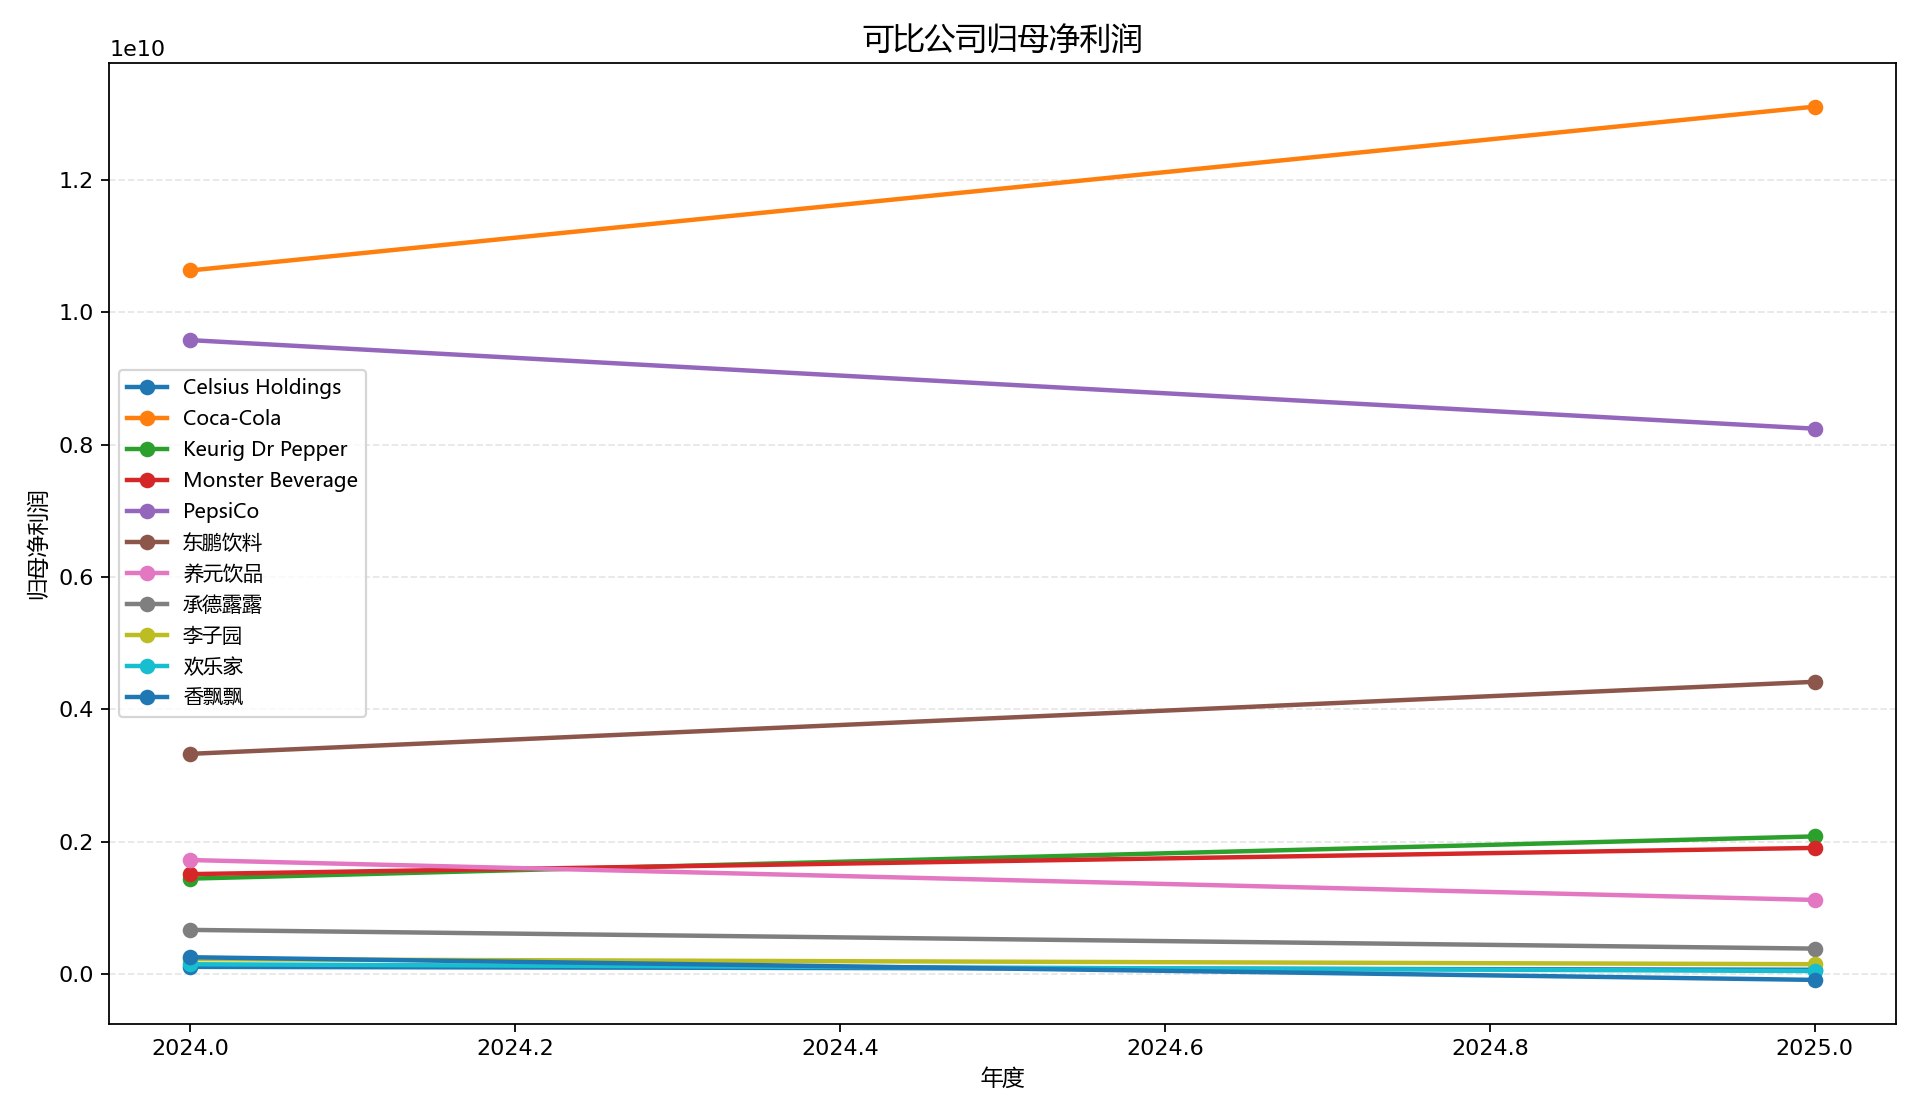
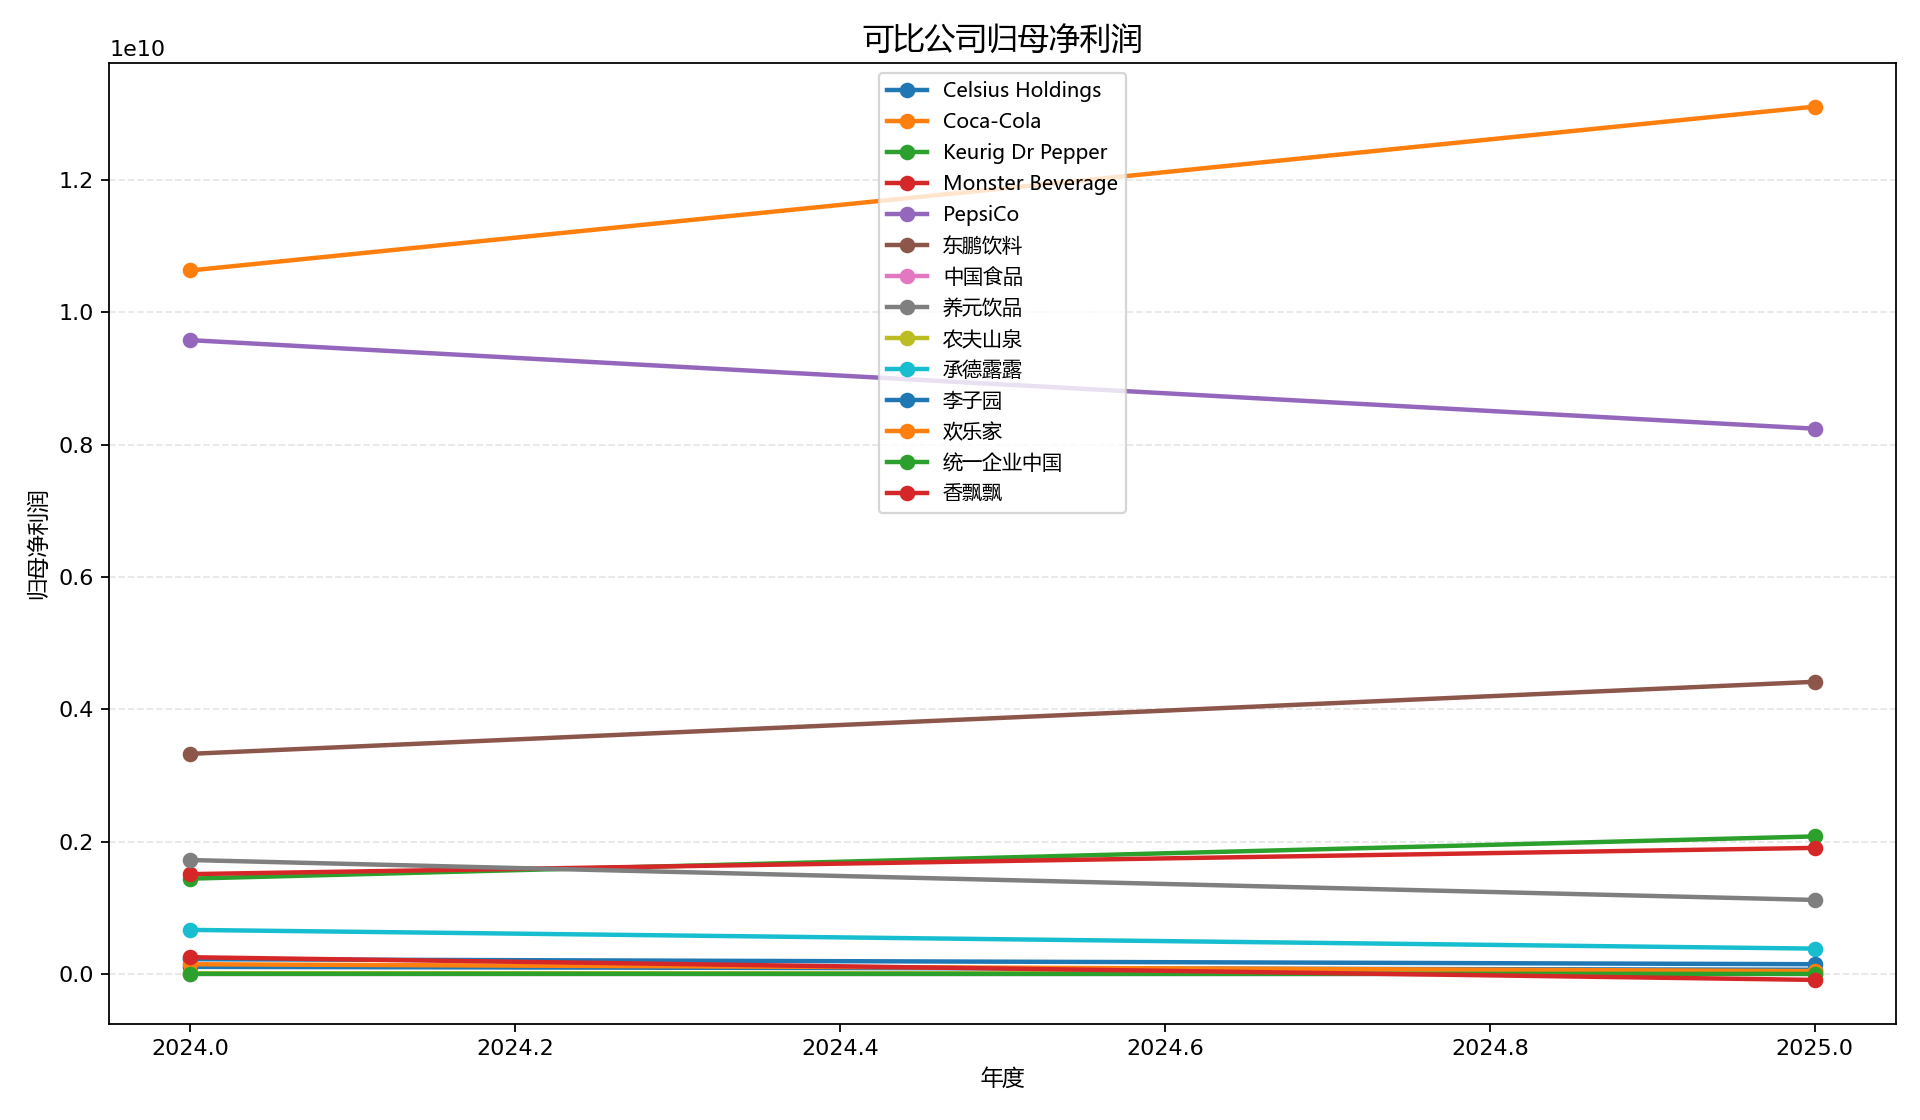
补充饮料H股可比公司与横向分析

diff --git a/饮料可比公司研究/03_横向对比分析_第一版.md b/饮料可比公司研究/03_横向对比分析_第一版.md
@@ -1,0 +1,103 @@
+# 饮料可比公司横向对比分析
+
+## 范围与口径
+
+- 当前主表共纳入 `14` 家公司、`28` 条年度记录。
+- A股：东鹏饮料、养元饮品、承德露露、香飘飘、李子园、欢乐家。
+- H股：农夫山泉、统一企业中国、中国食品。
+- 美股：Monster Beverage、Celsius Holdings、Coca-Cola、PepsiCo、Keurig Dr Pepper。
+- `2024` 基本可作为严格横向比较口径。
+- `2025` 为混合口径：东鹏饮料、欢乐家、美股为全年；承德露露、养元饮品、李子园、香飘飘为三季报；农夫山泉、统一企业中国、中国食品为中报。因此 `2025` 更适合看结构和相对位置，不适合直接做严格同比。
+- 跨市场的收入和资产规模受币种影响，不直接横比绝对规模；本文件重点比较利润率、费用率、回报率、负债率、流动性和现金流质量。
+
+## 东鹏与重点可比公司对照
+
+### 2024 关键指标
+
+| 公司 | 毛利率 | 归母净利率 | 销售费用率 | ROE | 资产负债率 | 经营现金流/归母净利润 | 资本开支/收入 |
+|---|---:|---:|---:|---:|---:|---:|---:|
+| 东鹏饮料 | 44.8% | 21.0% | 16.9% | 47.5% | 66.1% | 1.74x | 10.7% |
+| 农夫山泉 | 58.1% | 28.3% | 21.4% | 39.8% | 39.3% | 0.91x | 15.1% |
+| Monster Beverage | 54.0% | 20.1% | 28.3% | 25.3% | 22.8% | 1.28x | 3.5% |
+| Celsius Holdings | 50.2% | 7.9% | 38.6% | 26.9% | 30.7% | 2.45x | 1.7% |
+| Coca-Cola | 61.1% | 22.6% | 31.0% | 42.8% | 75.3% | 0.64x | 4.4% |
+| PepsiCo | 54.6% | 10.4% | 40.5% | 53.1% | 81.7% | 1.31x | 0.0% |
+| 统一企业中国 | 32.5% | 6.1% | 22.2% | 13.8% | 42.7% | 2.37x | 2.3% |
+| 中国食品 | 37.8% | 4.0% | 27.3% | 13.8% | 42.1% | 3.31x | 3.6% |
+
+### 2025 关键指标
+
+| 公司 | 毛利率 | 归母净利率 | 销售费用率 | ROE | 资产负债率 | 经营现金流/归母净利润 | 资本开支/收入 |
+|---|---:|---:|---:|---:|---:|---:|---:|
+| 东鹏饮料 | 44.1% | 21.2% | 16.3% | 51.6% | 64.7% | 1.40x | 10.9% |
+| 农夫山泉 | 60.3% | 29.7% | 19.6% | 23.9% | 51.3% | 1.37x | 13.9% |
+| Monster Beverage | 55.8% | 23.0% | 26.7% | 23.1% | 17.4% | 1.10x | 1.6% |
+| Celsius Holdings | 50.4% | 2.5% | 44.7% | 5.4% | 42.5% | 5.63x | 1.4% |
+| Coca-Cola | 61.6% | 27.3% | 30.3% | 40.7% | 69.3% | 0.57x | 4.4% |
+| PepsiCo | 54.1% | 8.8% | 39.8% | 40.4% | 80.9% | 1.47x | 0.0% |
+| 统一企业中国 | 34.3% | 7.5% | 22.1% | 9.8% | 44.5% | 0.68x | 3.7% |
+| 中国食品 | 38.1% | 4.7% | 26.3% | 8.8% | 45.9% | 3.26x | 2.7% |
+
+## 盈利与费用结构
+
+### 2024 严格可比口径下的结论
+
+- 东鹏饮料不是样本里毛利率最高的公司。`2024` 毛利率 `44.8%`，在 `14` 家中排第 `8`，明显低于可口可乐 `61.1%`、农夫山泉 `58.1%`、Monster `54.0%`。
+- 东鹏的强项在于费用纪律和利润兑现，而不是绝对毛利溢价。`2024` 销售费用率 `16.9%`，显著低于农夫山泉 `21.4%`、Monster `28.3%`、可口可乐 `31.0%`、百事 `40.5%`。
+- 东鹏 `2024` 归母净利率 `21.0%`，在样本中排第 `4`，已经接近 Monster 的 `20.1%`，明显高于百事 `10.4%`、统一企业中国 `6.1%`、中国食品 `4.0%`。
+- 东鹏 `2024` ROE 为 `47.5%`，在 `14` 家里排第 `2`，仅低于百事 `53.1%`，高于可口可乐 `42.8%` 和农夫山泉 `39.8%`。
+- A股内部看，东鹏和养元饮品是 `2024` 盈利能力最强的两个样本。养元净利率更高，东鹏 ROE 更高。
+
+### 2025 当前口径下的结构变化
+
+- 东鹏 `2025` 毛利率 `44.1%`、净利率 `21.2%`、销售费用率 `16.3%`、ROE `51.6%`。在当前混合口径下，东鹏仍保持高盈利、低销售费用和最高 ROE 的组合。
+- 农夫山泉代表高毛利、高净利的品牌溢价型。`2025` 毛利率 `60.3%`、净利率 `29.7%`，分别高于东鹏 `16.2` 和 `8.6` 个百分点，但销售费用率也高 `3.2` 个百分点。
+- Monster 代表高毛利、较高费用但仍能维持高净利的全球能量饮料模式。`2025` 东鹏比 Monster 低 `11.7` 个百分点毛利，但只低 `1.8` 个百分点净利，反映出东鹏的费用控制更强。
+- Celsius 是高投放换增长的典型。`2025` 销售费用率高达 `44.7%`，净利率仅 `2.5%`，说明高毛利并不等于高利润。
+- 可口可乐和百事是两种成熟全球饮料模型：可口可乐是高毛利高净利，百事是高费用多品类。`2025` 可口可乐净利率 `27.3%`，百事只有 `8.8%`，而百事销售费用率仍高达 `39.8%`。
+- H股中，统一企业中国和中国食品更接近渠道驱动、薄利运营模型。`2025` 二者净利率仅 `7.5%` 和 `4.7%`，显著低于东鹏。
+
+### 对东鹏的定位
+
+- 对农夫山泉：东鹏是“中高毛利、低费用、高 ROE”的效率型功能饮料龙头；农夫山泉是“高毛利、高净利”的品牌溢价型龙头。
+- 对 Monster：东鹏是“更低费用的本土能量饮料龙头”；Monster 是“更高毛利的全球品牌型能量饮料龙头”。
+- 对 Celsius：东鹏明显更成熟，利润和回报已经兑现，不依赖高投放。
+- 对可口可乐与百事：东鹏不是全球品牌溢价型，也不是多品类高费用型，而是更克制的单品类高效率型。
+- 对统一企业中国与中国食品：东鹏处在显著更高的盈利层级，已经同时做到更低费用和更高利润。
+
+## 资产负债与现金流质量
+
+### 2024 严格可比口径下的结论
+
+- 东鹏 `2024` 资产负债率 `66.1%`，在 `14` 家中排第 `3` 高，仅低于百事 `81.7%` 和可口可乐 `75.3%`。在国内饮料公司里，这一杠杆水平偏激进。
+- 东鹏 `2024` 流动比率 `0.86`、现金比率 `0.38`，分别只排第 `12`、第 `10`，显著弱于 Monster `3.32/1.40`、Celsius `3.62/2.44`、承德露露 `3.75/3.52`。
+- 东鹏 `2024` 经营现金流/归母净利润 `1.74x`，排第 `4`。高于农夫山泉 `0.91x`、Monster `1.28x`、可口可乐 `0.64x`、百事 `1.31x`，说明利润兑现成现金的能力较强。
+- 但东鹏并非现金流质量最强的样本。中国食品 `3.31x`、Celsius `2.45x`、统一企业中国 `2.37x` 都高于东鹏。
+- 东鹏 `2024` 资本开支/收入 `10.7%`，在样本中排第 `2`，仅低于农夫山泉 `15.1%`。这意味着东鹏仍处于明显的扩张投入阶段。
+
+### 对东鹏的相对判断
+
+- 相对农夫山泉：东鹏负债率高 `26.8` 个百分点，流动性更弱，但经营现金流/净利润高 `0.83x`，资本开支/收入低 `4.4` 个百分点。
+- 相对 Monster：东鹏负债率高 `43.3` 个百分点，流动比率低 `2.46`，现金比率低 `1.02`；但经营现金流/净利润高 `0.46x`，资本开支/收入高 `7.1` 个百分点。
+- 相对 Celsius：东鹏负债率高 `35.4` 个百分点，流动比率低 `2.77`，现金比率低 `2.05`；经营现金流/净利润低 `0.71x`，资本开支/收入高 `8.9` 个百分点。
+- 相对可口可乐：东鹏负债率低 `9.2` 个百分点，但流动比率仍低 `0.17`、现金比率低 `0.05`；经营现金流/净利润高 `1.10x`，资本开支/收入高 `6.3` 个百分点。
+- 相对百事：东鹏负债率低 `15.7` 个百分点，流动比率略高 `0.04`，现金比率高 `0.11`；经营现金流/净利润高 `0.43x`。
+- 相对统一企业中国与中国食品：东鹏负债率更高、短债覆盖更弱，但利润现金化和扩张强度也更高。
+
+### 对东鹏资产负债表的归纳
+
+- 东鹏更像“高杠杆 + 强现金流 + 高投入”的扩张型公司，而不是“低杠杆 + 高流动性”的防守型公司。
+- 东鹏当前的风险不在盈利能力，而在于：高资本开支和偏弱短债覆盖并存，导致资产负债表弹性弱于 Monster、Celsius、承德露露、李子园等低杠杆样本。
+- 东鹏当前的支撑则在于：利润现金化质量较强，尚不是“弱现金流被动加杠杆”的结构。
+
+## 高信号结论
+
+1. 东鹏的核心竞争力不是最高毛利，而是 `中高毛利 + 低销售费用 + 极高 ROE` 的组合。
+2. 在 `2024` 严格可比口径下，东鹏是样本中少数兼具 `20%+ 净利率` 与 `40%+ ROE` 的公司。
+3. 东鹏相对农夫山泉的差距主要在品牌溢价，不在费用纪律；相对 Monster 的差距主要在毛利，不在净利。
+4. 东鹏已经比多数渠道型饮料公司高一个盈利层级，统一企业中国和中国食品无法在利润率与费用率上形成对标压力。
+5. 美股样本普遍呈现“高毛利 + 高销售费用”的成熟品牌特征，东鹏则更接近“效率驱动型本土龙头”。
+6. 东鹏的 `2024` 经营现金流/净利润 `1.74x` 较强，说明利润质量不错，但并非样本最优。
+7. 东鹏的资本开支强度在样本中处于前列，显示其仍在显著扩张周期内。
+8. 东鹏的真正短板是资产负债表而不是利润表：负债率高、流动比率低、现金比率偏弱。
+9. 如果后续要继续做估值或投委会判断，最关键的跟踪点不是毛利率，而是 `销售费用率能否继续稳定、资本开支是否开始回落、短债覆盖能否改善`。

diff --git a/饮料可比公司研究/data/H股可比公司_说明.md b/饮料可比公司研究/data/H股可比公司_说明.md
@@ -1,0 +1,13 @@
+# H股可比公司口径说明
+
+本表仅纳入当前已完成提取、且可以稳定映射到统一字段模板的 3 家 H 股饮料公司：农夫山泉、统一企业中国、中国食品。
+
+## 口径边界
+- 2024 年统一使用年度报告口径。
+- 2025 年当前统一使用最新官方中期报告口径，因此 2025 列并非全年数，而是 2025 年上半年累计值。
+- 货币资金仅取现金及现金等价物或现金及银行结余，不把长期定存并入货币资金。
+- 购建长期资产支付的现金统一按固定资产、无形资产、使用权资产等经营性长期资产现金支出汇总。
+- ROA、ROE 均按期初期末平均总资产、平均归母权益计算。
+
+## 暂未并入公司
+- 康师傅控股：2024 年报可提取，2025 年度业绩公告也能提取利润表、资产负债表和资本开支，但当前年度业绩公告中的全年经营现金流披露页不够稳定，暂未并入主表，后续拿到更稳的现金流口径后再补。
